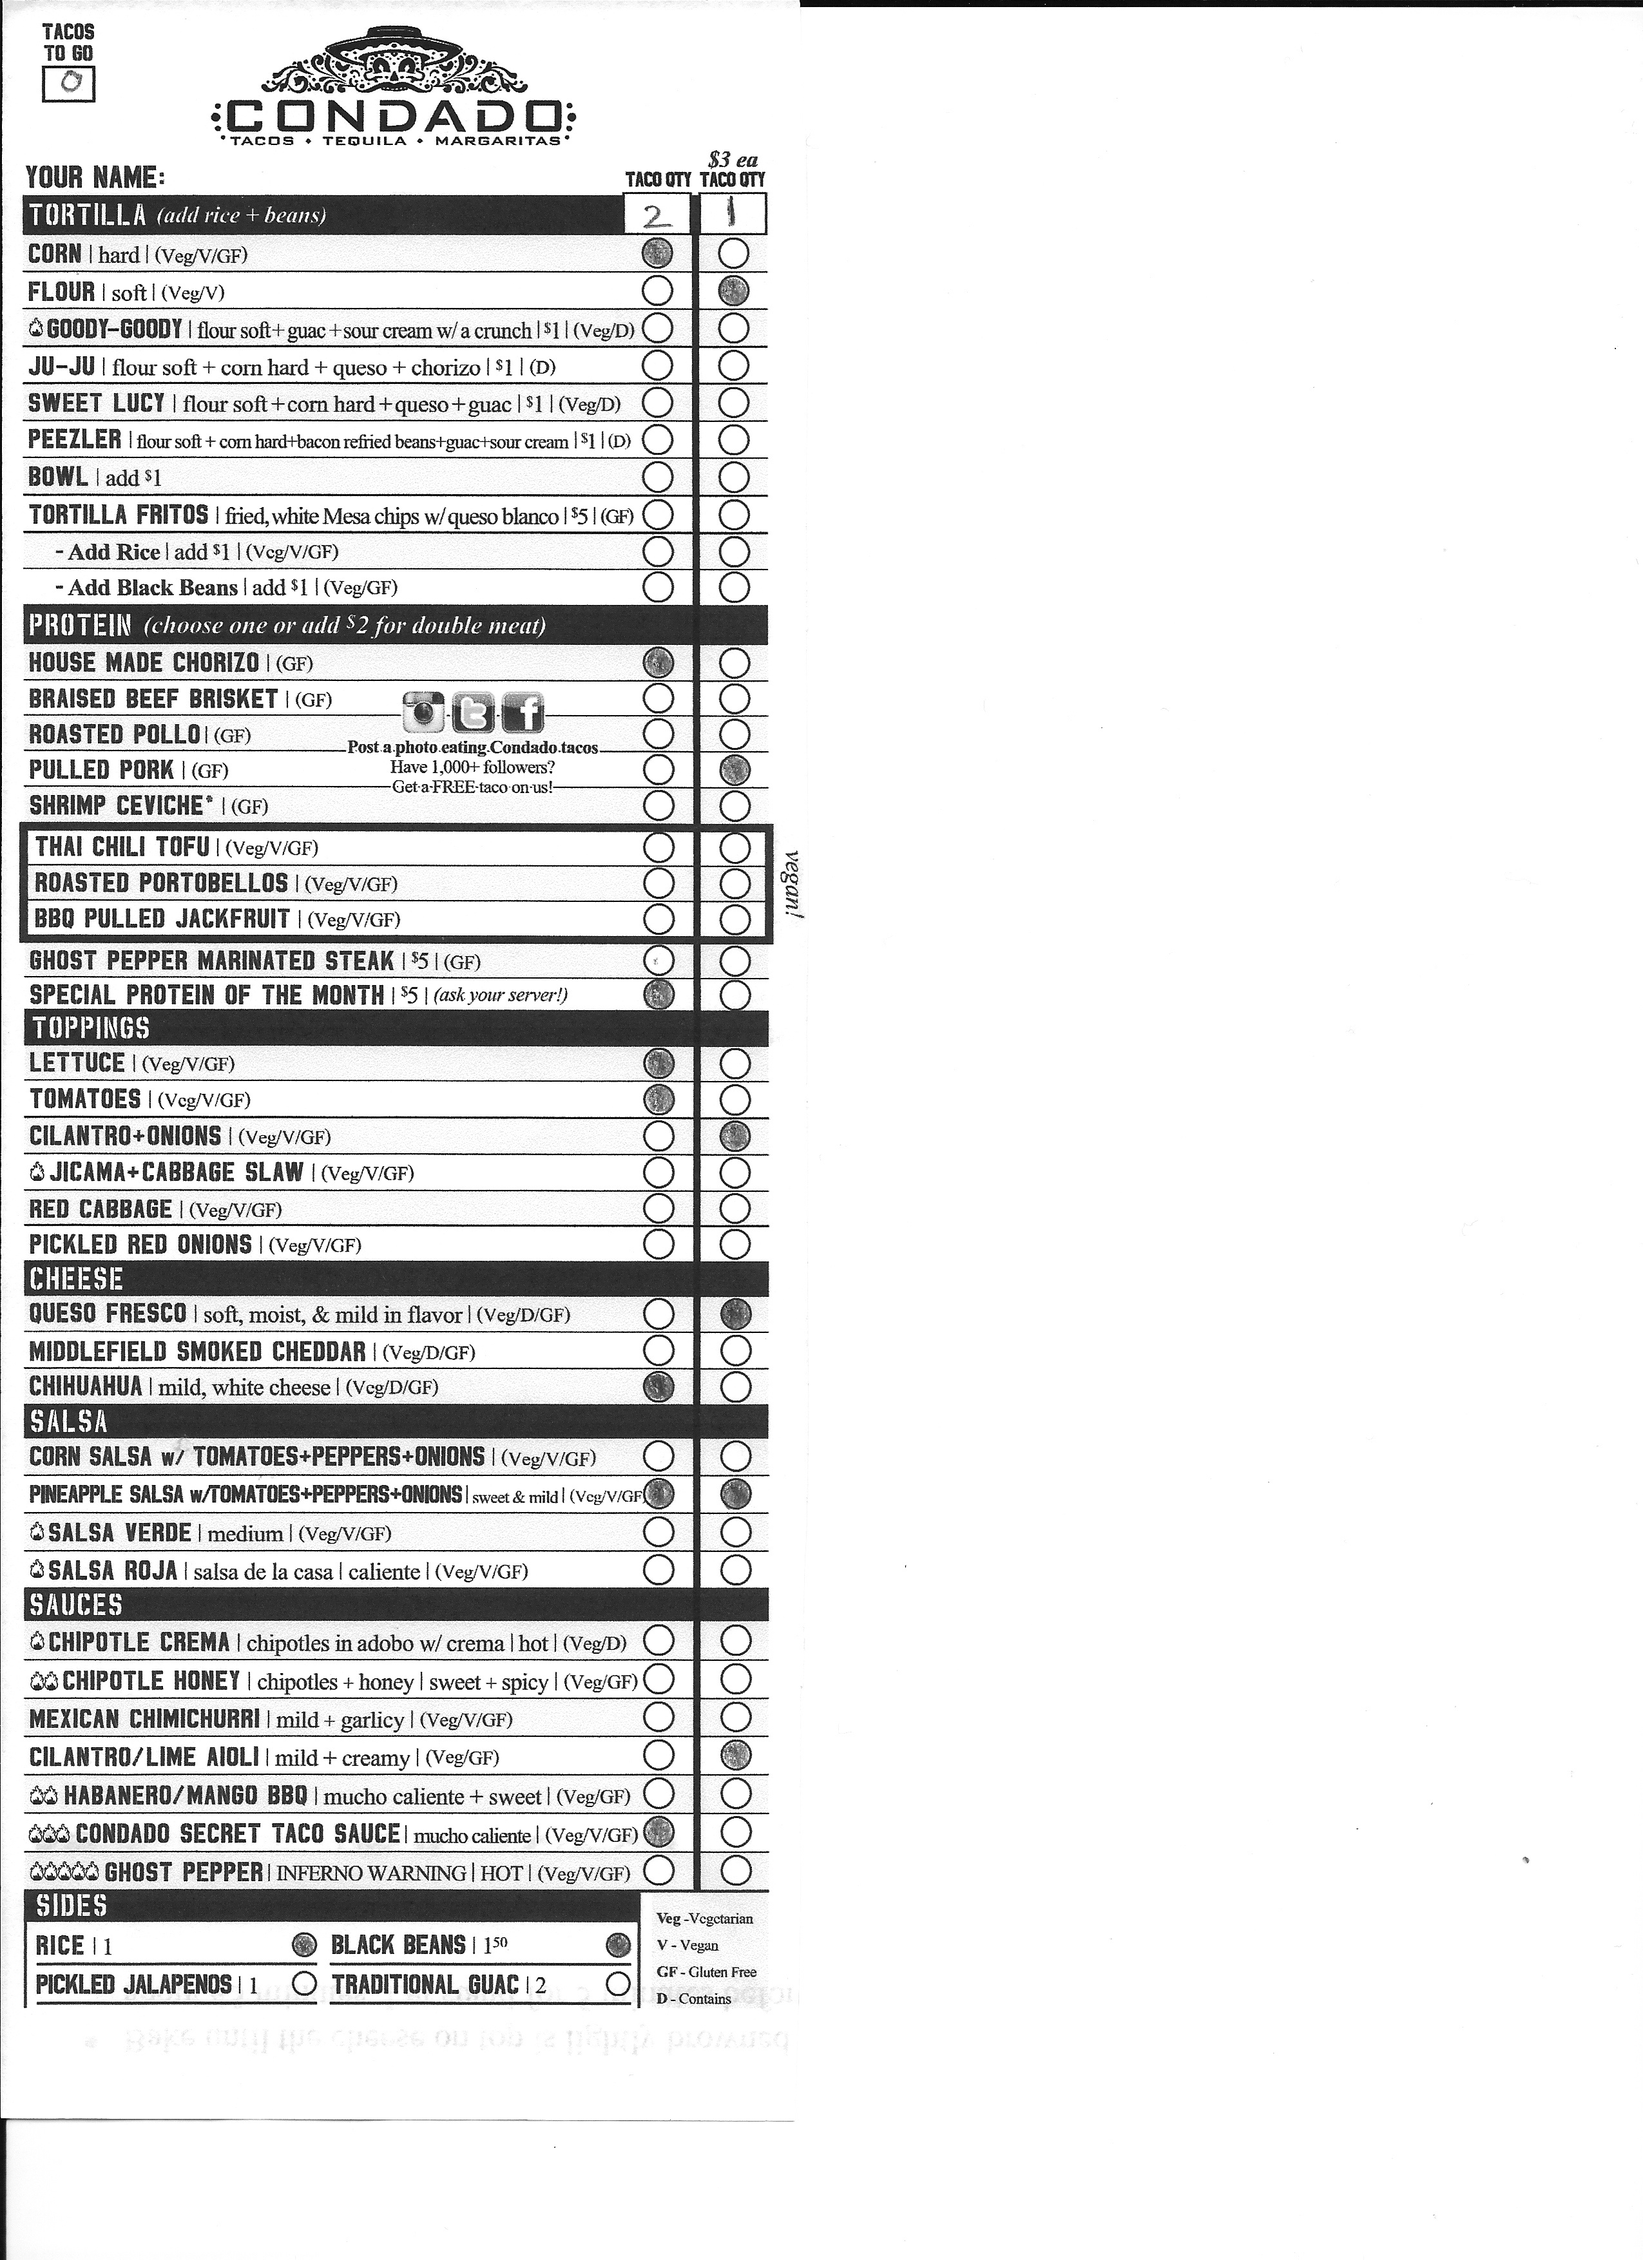
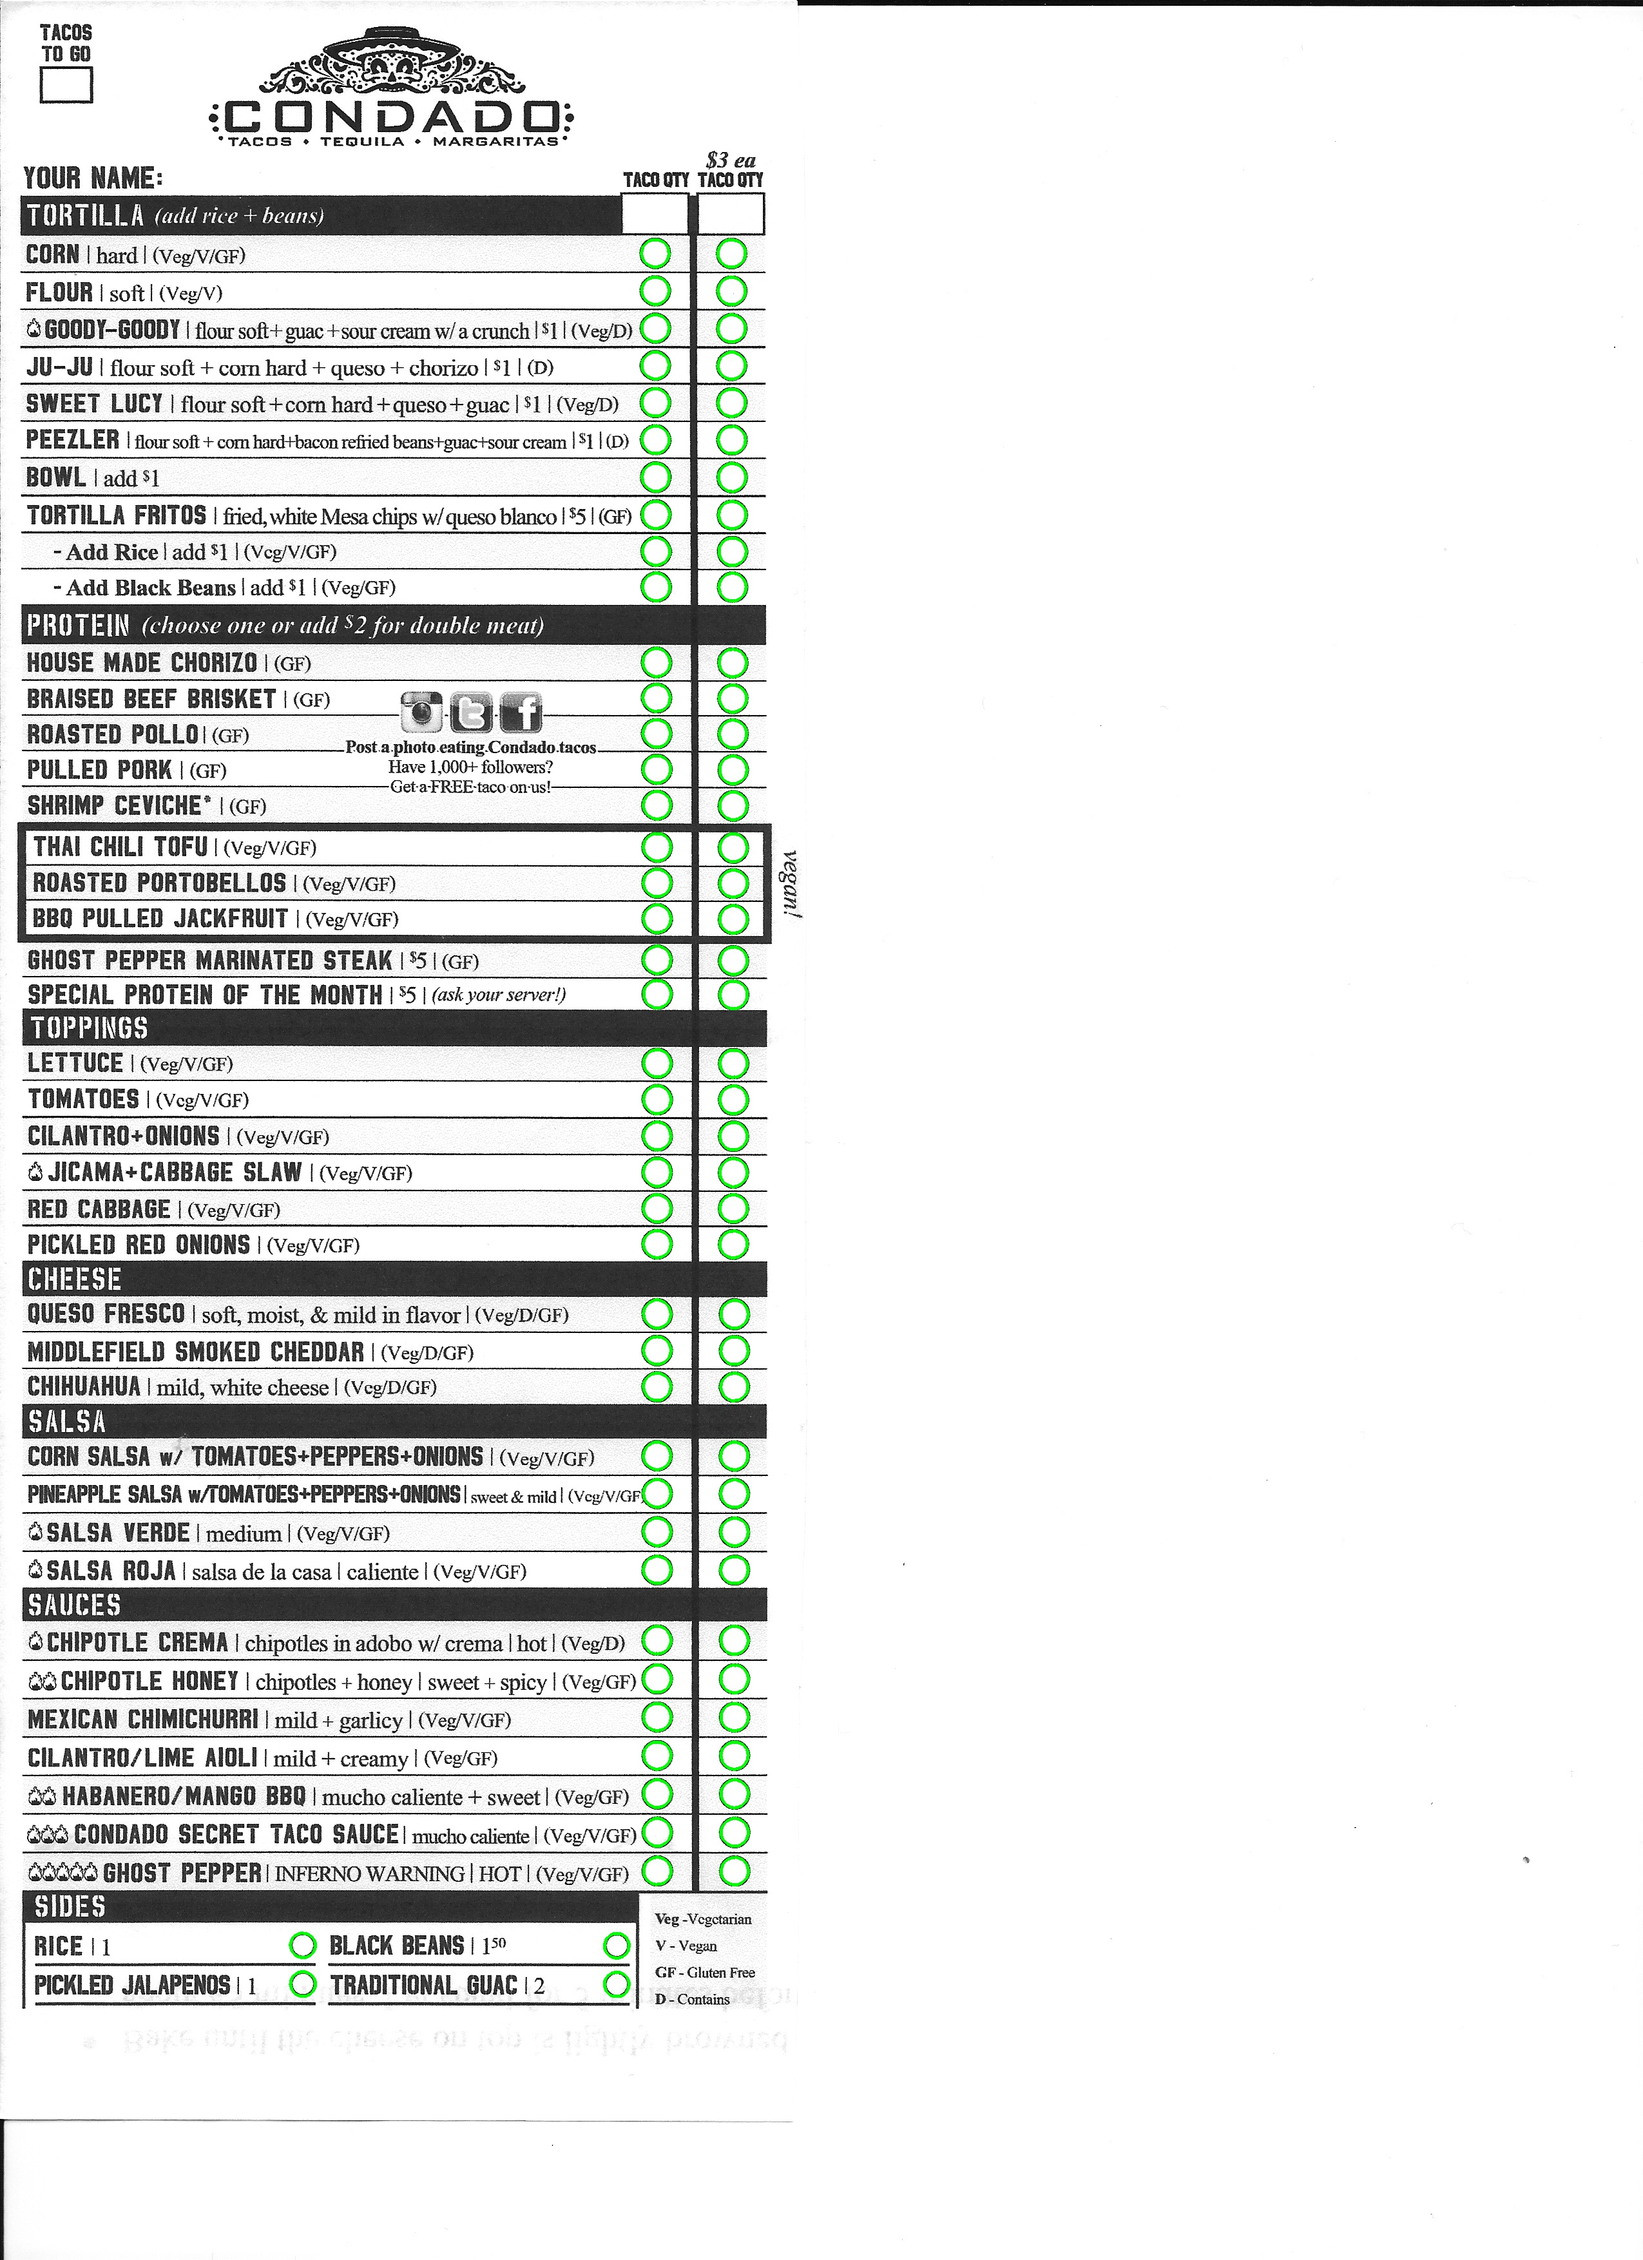
Removed some redundancy and added additional test image

Changed region(s): [[0.0, 0.0, 0.4957, 0.9011], [0.1239, 0.0, 0.3408, 0.0621]]

diff --git a/omr.py b/omr.py
@@ -8,14 +8,14 @@ menuItems = ['Corn Tortilla', 'Flour Tortilla','Goody-Goody Tortilla','Ju-Ju Tor
     'Special Protein of the Month','Lettuce','Tomatoes','Cilantro+Onions','Jicama+Cabbage Slaw','Red Cabbage','Pickled Red Onions','Queso Fresco','Middlefield Smoked Cheddar','Chihuahua',
     'Corn Salsa w/ Tomatoes+Peppers+Onions','Pineapple Salsa w/ Tomatoes+Pepper+Onions','Salsa Verde','Salsa Roja','Chipotle Crema','Chipotle Honey','Mexican Chimichuri','Cilantro/Lime Aioli',
     'Habenero/Mango BBQ','Condado Secret Taco Sauce','Ghost Pepper']
-    
+
 menuSides = ['Rice','Black Beans','Picked Jalapenos','Tradional Gauc', 'Sour Cream','Bacon Refried Beans']
 
 tacoone = []
 tacotwo = []
 sides = []
 
-answers = cv2.imread('./imgs/answer.jpg')
+answers = cv2.imread('./imgs/answer2.jpg')
 answersgray = cv2.cvtColor(answers, cv2.COLOR_BGR2GRAY)
 answersblurred = cv2.GaussianBlur(answersgray, (5, 5), 0)
 
@@ -49,8 +49,6 @@ for c in cnts:
 	if w >= 35 and h >= 35 and w <= 46 and h <= 46 and ar >= 0.95 and ar <= 1.05:
 		questionCnts.append(c)
 
-cv2.drawContours(image, questionCnts, -1, (0,255,0), 3)
-cv2.imwrite('./imgs/test.jpg', image)
 
 #sort bubbles from top to bottom,we do not know how they are listed horizontally
 questionCnts = contours.sort_contours(questionCnts, method="top-to-bottom")[0]
@@ -64,15 +62,15 @@ for (i, c) in enumerate(questionCnts):
 	# draw bubbles onto filled in sheet one at a time
 	mask = np.zeros(answersthresh.shape, dtype="uint8")
 	cv2.drawContours(mask, [c], -1, 255, -1)
-	
+
 	# compute the total number of filled in pixels inside bounding bubble
 	mask = cv2.bitwise_and(answersthresh, answersthresh, mask=mask)
 	total = cv2.countNonZero(mask)
-	
+
 	# logic to discern if bubbles are to the left or right, and applying
 	# the menu items from each loaction to the respective taco
-	print(total)
-	if total > 750:
+
+	if total > 550:
 		if (i+1) < dif:
 			if i % 2 == 0 or i == 0:
 				if questionCnts[i][0][0][0] < questionCnts[i+1][0][0][0]:
@@ -92,7 +90,7 @@ for (i, c) in enumerate(questionCnts):
 					else:
 						tacoone.append(menuItems[int((i-1)/2)])
 				else:
-					if i == 1:	
+					if i == 1:
 						tacotwo.append(menuItems[(i-1)])
 					else:
 						tacotwo.append(menuItems[int((i-1)/2)])
@@ -107,8 +105,7 @@ for (i, c) in enumerate(questionCnts):
 					sides.append(menuSides[i-dif-1])
 				else:
 					sides.append(menuSides[i-dif])
-			
+
 print(tacoone)
 print(tacotwo)
 print(sides)
-
